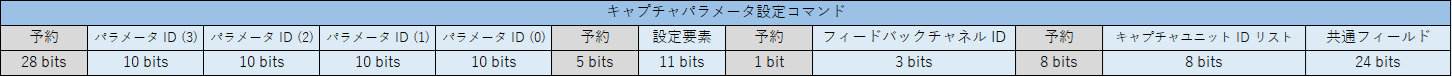
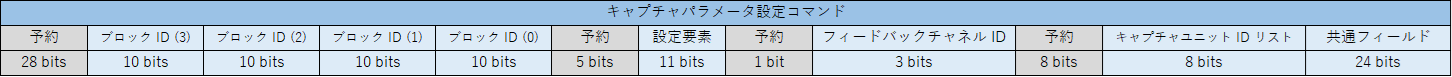
update manuals

Changed region(s): [[0.062, 0.4156, 0.3719, 0.5455]]

diff --git a/manuals/feedback.md b/manuals/feedback.md
@@ -188,7 +188,7 @@ AWG の停止を確認してからコマンドが終了します．
 | AWG ID リスト | N bit 目が 1 のとき，N 番目の AWG に波形パラメータを設定します．(複数選択可能) |
 | フィードバックチャネル ID | 参照するフィードバックチャネルの ID (= 0~7) . |
 | 最大チャンク番号 | 波形パラメータの中の 0 ~ `最大チャンク番号` の波形チャンクの情報を AWG に設定します． |
-| パラメータ ID (0~3) | AWG に設定する波形パラメータの ID． <br> フィードバック値によって参照されるフィールドが変わり，フィードバック値が N (= 0~3) のとき，パラメータ ID (N) が参照されます．|
+| ブロック ID (0~3) | AWG に設定する波形パラメータブロックの ID． <br> フィードバック値によって参照されるフィールドが変わり，フィードバック値が N (= 0~3) のとき，ブロック ID (N) が参照されます．|
 
 <br>
 
@@ -206,7 +206,7 @@ AWG の停止を確認してからコマンドが終了します．
 | キャプチャユニット ID リスト | N bit 目が 1 のとき，N 番目のキャプチャユニットにキャプチャパラメータを設定します．(複数選択可能) |
 | フィードバックチャネル ID | 参照するフィードバックチャネルの ID (= 0~7). |
 | 設定要素 | 各ビットとキャプチャパラメータの要素が対応しており，1 にしたビットの要素がキャプチャユニットに設定されます．<br><br> bit 0 : 信号処理モジュールの有効 / 無効 <br> bit 1 : キャプチャディレイ <br> bit 2 : 積算区間数 <br> bit 3 : 総和区間数 <br> bit 4 : 総和開始点 / 終了点 <br> bit 5 : 総和区間長 0\~4095 <br> bit 6 : ポストブランク長 0\~4095 <br> bit 7 : 複素 FIR 実数 / 虚数係数 0\~15 <br> bit 8 : I データ / Q データ FIR 係数 0\~7 <br> bit 9 : 窓関数実数 / 虚数係数 0\~2047 <br> bit 10 : 四値化パラメータ a0\~c1
-| パラメータID (0~3) | キャプチャユニットに設定するキャプチャパラメータの ID. <br> フィードバック値によって参照されるフィールドが変わり，フィードバック値が N (= 0~3) のとき，パラメータ ID (N) が参照されます．|
+| ブロック ID (0~3) | キャプチャユニットに設定するキャプチャパラメータブロックの ID. <br> フィードバック値によって参照されるフィールドが変わり，フィードバック値が N (= 0~3) のとき，ブロック ID (N) が参照されます．|
 
 <br>
 
